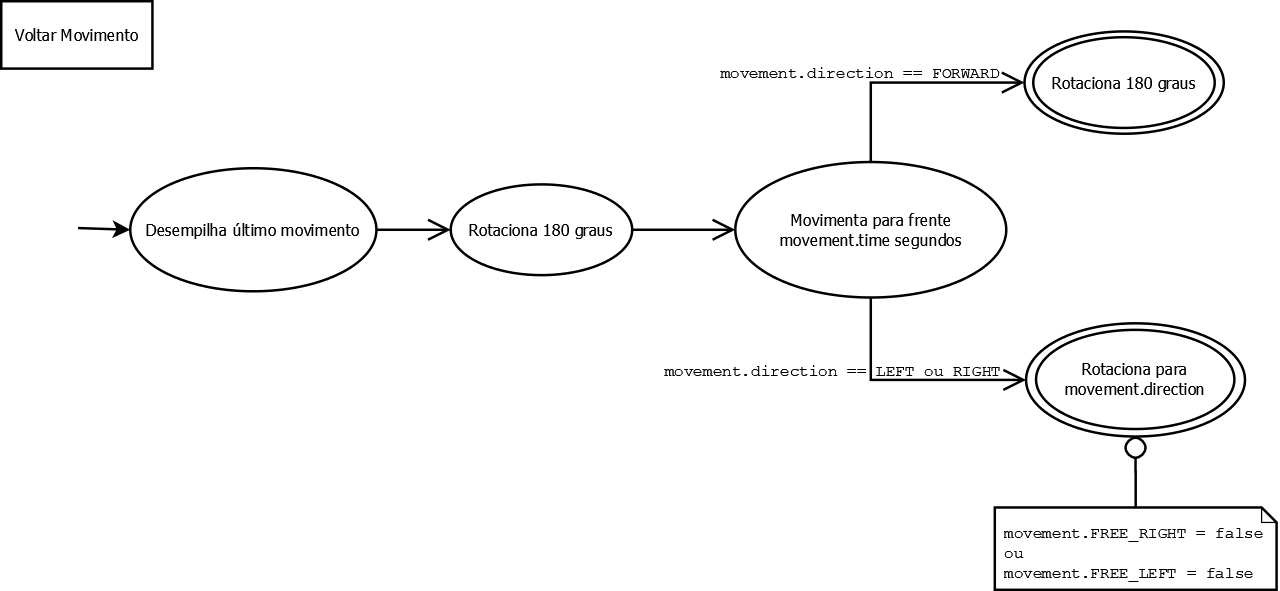
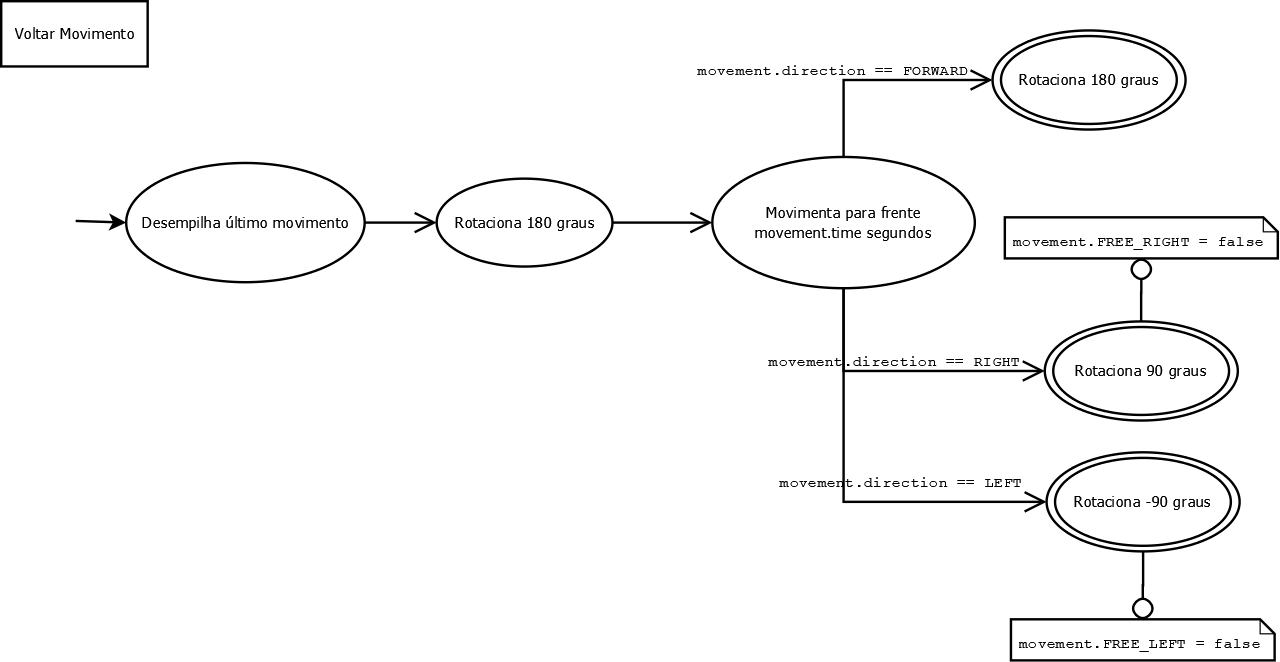
k

diff --git a/Apollo 11/Protótipo/Apollo11prototype/Assets/Scripts/CarMovement.cs b/Apollo 11/Protótipo/Apollo11prototype/Assets/Scripts/CarMovement.cs
@@ -43,8 +43,8 @@ public class CarMovement : MonoBehaviour {
 	private Stack<Movement> movementStack 			= new Stack<Movement>();	//pilha que guarda a sequência de movimentos do carro
 
 	//Variáveis LIST
-	private List<Movement> pathToEnd				= new List<Movement>();
-	private List<Movement> pathToStart				= new List<Movement>();
+	private List<Movement> pathToEnd				= new List<Movement>();		//lista de movimentos que levam do começo até o fim
+	private List<Movement> pathToStart				= new List<Movement>();		//lista de movimentos que levam do fim até o começo
 
 	//Variáveis INT
 	private int initialTurn							= FORWARD;					//direção que o carro virou no início do movimento
@@ -58,132 +58,47 @@ public class CarMovement : MonoBehaviour {
 	private CharacterController controller;										//character controller do carro
 
 	//Variáveis COLLIDER
-	public Collider finishCollider;
+	public Collider finishCollider;												//collider que indica o final do labirinto
 	#endregion
 
 	/// <summary>
-	/// Indica que a rotação do carro terminou
+	/// Inicializa o vetor de direções TurnAngle com os ângulos corretos para cada direção e guarda a referência do CharacterController do carrinho
 	/// </summary>
-	private void FinishedRotating(){
-		isRotating = false;
-		moveTime = 0f;
-		isCreatingMovement = false;
+	void Start () {
+		controller = GetComponent<CharacterController>();
+
+		TurnAngle = new int[4];
+		TurnAngle [FORWARD] 	= 0;
+		TurnAngle [RIGHT] 		= 90;
+		TurnAngle [BACKWARDS] 	= 180;
+		TurnAngle [LEFT]		= -90;
 	}
 
 	/// <summary>
-	/// Método que faz o carro se mover para frente por "time" segundos
+	/// Implementa a lógica Detecção -> Tratamento -> Movimento
 	/// </summary>
-	/// <param name="time">tempo que o carro continuará em movimento</param>
-	public void Move (float moveTime){
-		iTween.MoveBy(gameObject, iTween.Hash(
-			"x", moveTime*speed, 
-			"time", moveTime, 
-			"easetype", iTween.EaseType.linear,
-			"oncomplete", "FinishedMoving"));
-	}
-
-	/// <summary>
-	/// Método que faz o carro girar no própio eixo por "angle" graus
-	/// </summary>
-	/// <param name="angle"> ângulo em graus que o carro vai virar </param>
-	/// <param name="turnTime"> tempo que demora para o carro girar </param>
-	public void Rotate (int angle, float turnTime){
-		isRotating = true;
-		iTween.RotateBy (gameObject, iTween.Hash (
-			"y", TurnAngle[angle]/360.0f,
-			"time", turnTime,
-			"easetype", iTween.EaseType.linear,
-			"oncomplete", "FinishedRotating"));
-	}
-
-	/// <summary>
-	/// Retira o último movimento realizado da pilha de movimentos
-	/// e executa seu inverso
-	/// </summary>
-	private IEnumerator ReverseMovement () {
-		canMove = false;
-		if (movementStack.Count != 0) {
-			Movement movement = movementStack.Pop ();
-			Rotate (BACKWARDS, turnTime);
-			yield return new WaitForSeconds (turnTime);
-			Move (movement.time);
-			yield return new WaitForSeconds (movement.time * movementSafetyCoeficient);
-			if(movement.direction == FORWARD)
-				Rotate (BACKWARDS, turnTime);
-			else
-				Rotate (movement.direction, turnTime);
-			yield return new WaitForSeconds (turnTime);
+	void Update () {
+		if (isCreatingMovement || isRewinding || reachedEnd)
+			timer = 0;
+		else
+			timer += Time.deltaTime;
+		if (timer > CORRIDOR_WIDTH / speed) {
+			if(!isRotating)
+				Detection ();
+			timer = 0;
 		}
-		isReversing = false;
-	}
 
-	private IEnumerator Rewind () {
-		isRewinding = true;
-		while (movementStack.Count > 0) {
-			if (movementStack.Peek ().FREE_RIGHT) {
-				Rotate (RIGHT, turnTime);
-				initialTurn = RIGHT;
-				yield return new WaitForSeconds (turnTime);
-				canMove = true;
-				Movement movement = movementStack.Pop ();
-				movement.FREE_RIGHT = false;
-				movementStack.Push (movement);
-				break;
-			} else if (movementStack.Peek ().FREE_LEFT) {
-				Rotate (LEFT, turnTime);
-				initialTurn = LEFT;
-				yield return new WaitForSeconds (turnTime);
-				canMove = true;
-				Movement movement = movementStack.Pop ();
-				movement.FREE_LEFT = false;
-				movementStack.Push (movement);
-				break;
-			} else {
-				if (movementStack.Count < 1)
-					break;
-				else {
-					int direction = movementStack.Peek ().direction;
-					isReversing = true;
-					StartCoroutine (ReverseMovement ());
-					yield return new WaitWhile (() => isReversing);
-					if (movementStack.Count > 0) {
-						Movement movement = new Movement ();
-						movement = movementStack.Pop ();
-						movement.FREE_FORWARD = false;
-						if (direction == RIGHT)
-							movement.FREE_RIGHT = false;
-						else if (direction == LEFT)
-							movement.FREE_LEFT = false;
-						movementStack.Push (movement);
-					}
-				}
-			}
+		if (canMove && !isRotating && !reachedEnd) {
+			controller.Move(GetForwardDirection() * speed * Time.deltaTime);
+			moveTime += Time.deltaTime;
 		}
-		isRewinding = false;
-	}
 
-	/// <summary>
-	/// Mostra a direção para frente local do carro
-	/// </summary>
-	/// <returns>The forward direction.</returns>
-	private Vector3 GetForwardDirection(){
-		return transform.right;
-	}
-
-	/// <summary>
-	/// Mostra a direção para a direita local do carro
-	/// </summary>
-	/// <returns>The right direction.</returns>
-	private Vector3 GetRightDirection(){
-		return - transform.forward;
-	}
-
-	/// <summary>
-	/// Mostra a direção para a esquerda local do carro
-	/// </summary>
-	/// <returns>The left direction.</returns>
-	private Vector3 GetLeftDirection(){
-		return transform.forward;
+		if (Input.GetKeyUp (KeyCode.S) && reachedEnd) {
+			StartCoroutine (ReturnToStart());
+		}
+		if (Input.GetKeyUp (KeyCode.E) && reachedEnd) {
+			StartCoroutine (GoToEnd());
+		}
 	}
 
 	/// <summary>
@@ -261,7 +176,7 @@ public class CarMovement : MonoBehaviour {
 					initialTurn = FORWARD;
 				}
 				else if (!isRewinding && !reachedEnd)
-						StartCoroutine (Rewind ());
+					StartCoroutine (Rewind ());
 			}
 		}
 	}
@@ -279,6 +194,129 @@ public class CarMovement : MonoBehaviour {
 		movement.FREE_FORWARD = canGoForward;
 		movementStack.Push(movement);
 		canMove = true;
+	}
+
+	/// <summary>
+	/// Cria listas com os movimentos necessários para ir do destino final até o começo e vice-versa
+	/// </summary>
+	private void MakePaths(){
+		reachedEnd = true;
+		Stack<Movement> movesToStart = new Stack<Movement>(new Stack<Movement>(new Stack<Movement>(movementStack)));
+		Stack<Movement> movesToEnd = new Stack<Movement>();
+		Movement movement = new Movement ();
+
+		for (int i = movesToStart.Count; i > 0; i--) {
+			movement = movesToStart.Pop ();
+			movesToEnd.Push (movement);
+			if (movement.direction == RIGHT)
+				movement.direction = LEFT;
+			else if (movement.direction == LEFT)
+				movement.direction = RIGHT;
+			pathToStart.Insert (0, movement);
+		}
+		for (int i = movesToEnd.Count; i > 0; i--) {
+			pathToEnd.Insert (0, movesToEnd.Pop ());
+		}
+	}
+
+	/// <summary>
+	/// Método que faz o carro girar no própio eixo por "angle" graus
+	/// </summary>
+	/// <param name="angle"> ângulo em graus que o carro vai virar </param>
+	/// <param name="turnTime"> tempo que demora para o carro girar </param>
+	public void Rotate (int angle, float turnTime){
+		isRotating = true;
+		iTween.RotateBy (gameObject, iTween.Hash (
+			"y", TurnAngle[angle]/360.0f,
+			"time", turnTime,
+			"easetype", iTween.EaseType.linear,
+			"oncomplete", "FinishedRotating"));
+	}
+
+	/// <summary>
+	/// Indica que a rotação do carro terminou
+	/// </summary>
+	private void FinishedRotating(){
+		isRotating = false;
+		moveTime = 0f;
+		isCreatingMovement = false;
+	}
+
+	/// <summary>
+	/// Método para continuar retirando movimentos da pilha enquanto não houver caminhos disponíveis.
+	/// Assim que exister um caminho disponível, o carro é rotacionado para a direção correta.
+	/// Cada movimento que é invertido, sua direção é marcada como indisponível.
+	/// </summary>
+	private IEnumerator Rewind () {
+		isRewinding = true;
+		while (movementStack.Count > 0) {
+			if (movementStack.Peek ().FREE_RIGHT) {
+				Rotate (RIGHT, turnTime);
+				initialTurn = RIGHT;
+				yield return new WaitForSeconds (turnTime);
+				canMove = true;
+				break;
+			} else if (movementStack.Peek ().FREE_LEFT) {
+				Rotate (LEFT, turnTime);
+				initialTurn = LEFT;
+				yield return new WaitForSeconds (turnTime);
+				canMove = true;
+				break;
+			} else {
+				if (movementStack.Count < 1)
+					break;
+				else {
+					int direction = movementStack.Peek ().direction;
+					isReversing = true;
+					StartCoroutine (ReverseMovement ());
+					yield return new WaitWhile (() => isReversing);
+					if (movementStack.Count > 0) {
+						Movement movement = new Movement ();
+						movement = movementStack.Pop ();
+						movement.FREE_FORWARD = false;
+						if (direction == RIGHT)
+							movement.FREE_RIGHT = false;
+						else if (direction == LEFT)
+							movement.FREE_LEFT = false;
+						movementStack.Push (movement);
+					}
+				}
+			}
+		}
+		isRewinding = false;
+	}
+
+	/// <summary>
+	/// Retira o último movimento realizado da pilha de movimentos
+	/// e executa seu inverso
+	/// </summary>
+	private IEnumerator ReverseMovement () {
+		canMove = false;
+		if (movementStack.Count != 0) {
+			Movement movement = movementStack.Pop ();
+			Rotate (BACKWARDS, turnTime);
+			yield return new WaitForSeconds (turnTime);
+			Move (movement.time);
+			yield return new WaitForSeconds (movement.time * movementSafetyCoeficient);
+			if(movement.direction == FORWARD)
+				Rotate (BACKWARDS, turnTime);
+			else
+				Rotate (movement.direction, turnTime);
+			yield return new WaitForSeconds (turnTime);
+		}
+		isReversing = false;
+	}
+
+	/// <summary>
+	/// Método que faz o carro se mover para frente por "time" segundos
+	/// </summary>
+	/// <param name="time">tempo que o carro continuará em movimento</param>
+	public void Move (float moveTime){
+		iTween.MoveBy(gameObject, iTween.Hash(
+			"x", moveTime*speed, 
+			"time", moveTime, 
+			"easetype", iTween.EaseType.linear,
+			"oncomplete", "FinishedMoving"));
 	}
 
 	/// <summary>
@@ -316,64 +354,26 @@ public class CarMovement : MonoBehaviour {
 	}
 
 	/// <summary>
-	/// Cria listas com os movimentos necessários para ir do destino final até o começo e vice-versa
+	/// Mostra a direção para frente local do carro
 	/// </summary>
-	private void MakePaths(){
-		reachedEnd = true;
-		Stack<Movement> movesToStart = new Stack<Movement>(new Stack<Movement>(new Stack<Movement>(movementStack)));
-		Stack<Movement> movesToEnd = new Stack<Movement>();
-		Movement movement = new Movement ();
-
-		for (int i = movesToStart.Count; i > 0; i--) {
-			movement = movesToStart.Pop ();
-			movesToEnd.Push (movement);
-			if (movement.direction == RIGHT)
-				movement.direction = LEFT;
-			else if (movement.direction == LEFT)
-				movement.direction = RIGHT;
-			pathToStart.Insert (0, movement);
-		}
-		for (int i = movesToEnd.Count; i > 0; i--) {
-			pathToEnd.Insert (0, movesToEnd.Pop ());
-		}
+	/// <returns>The forward direction.</returns>
+	private Vector3 GetForwardDirection(){
+		return transform.right;
 	}
 
-	// Use this for initialization
-	void Start () {
-		controller = GetComponent<CharacterController>();
-
-		TurnAngle = new int[4];
-		TurnAngle [FORWARD] 	= 0;
-		TurnAngle [RIGHT] 		= 90;
-		TurnAngle [BACKWARDS] 	= 180;
-		TurnAngle [LEFT]		= -90;
+	/// <summary>
+	/// Mostra a direção para a direita local do carro
+	/// </summary>
+	/// <returns>The right direction.</returns>
+	private Vector3 GetRightDirection(){
+		return - transform.forward;
 	}
 
-	// Update is called once per frame
-	void Update () {
-		if (isCreatingMovement || isRewinding || reachedEnd)
-			timer = 0;
-		else
-			timer += Time.deltaTime;
-		if (timer > CORRIDOR_WIDTH / speed) {
-			if(!isRotating)
-				Detection ();
-			timer = 0;
-		}
-
-		if (canMove && !isRotating && !reachedEnd) {
-			controller.Move(GetForwardDirection() * speed * Time.deltaTime);
-			moveTime += Time.deltaTime;
-		}
-
-		if (Input.GetKeyUp (KeyCode.S) && reachedEnd) {
-			StartCoroutine (ReturnToStart());
-		}
-		if (Input.GetKeyUp (KeyCode.E) && reachedEnd) {
-			StartCoroutine (GoToEnd());
-		}
-		if (Input.GetKeyUp (KeyCode.R) && reachedEnd) {
-			Rotate(BACKWARDS, turnTime);
-		}
+	/// <summary>
+	/// Mostra a direção para a esquerda local do carro
+	/// </summary>
+	/// <returns>The left direction.</returns>
+	private Vector3 GetLeftDirection(){
+		return transform.forward;
 	}
 }
